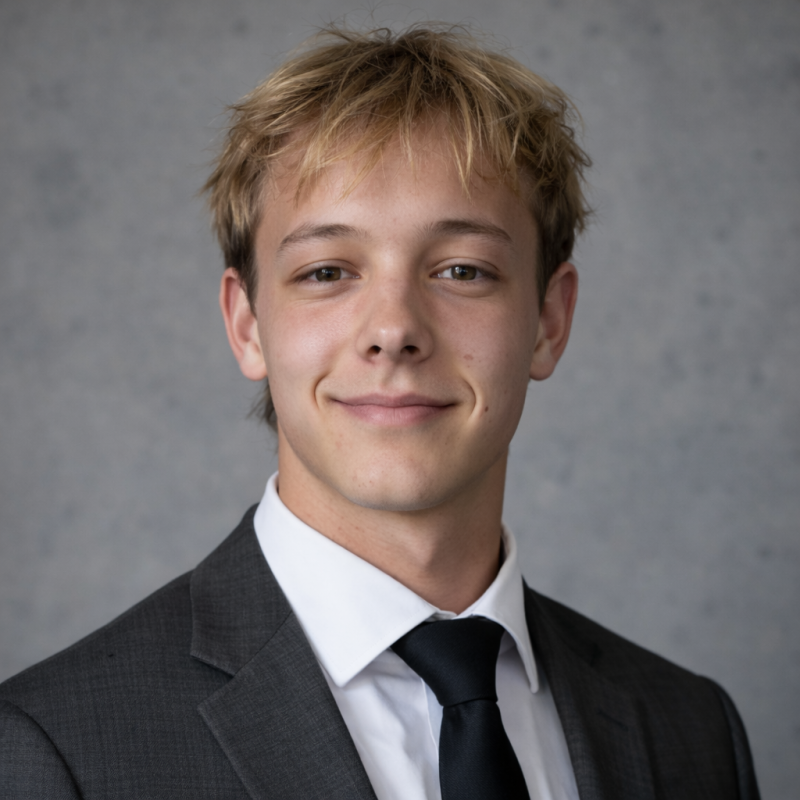
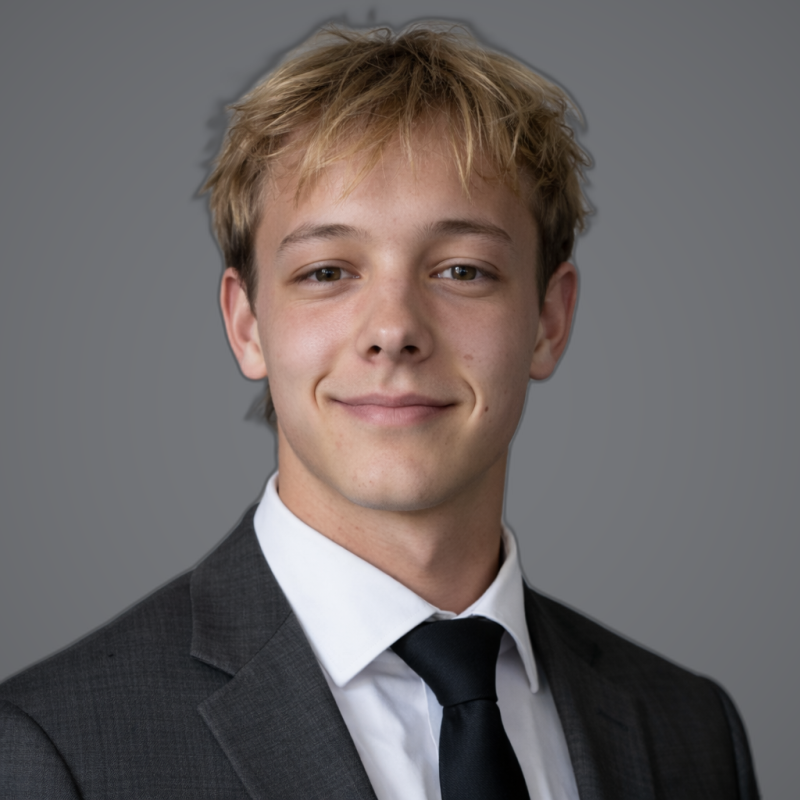
Recompose both founder photos on matching background with aligned face scale/position

diff --git a/client/src/pages/Home.tsx b/client/src/pages/Home.tsx
@@ -191,7 +191,7 @@ export default function Home() {
                 <img 
                   src="/images/founder-nathan.png" 
                   alt="Founder 1" 
-                  className="w-full aspect-square rounded-lg border-2 object-cover object-top"
+                  className="w-full aspect-square rounded-lg border-2 object-cover"
                   style={{ borderColor: "#E8E6E1" }}
                 />
                 <p className="mt-4 text-lg font-serif font-bold" style={{ color: "#001F3F" }}>
